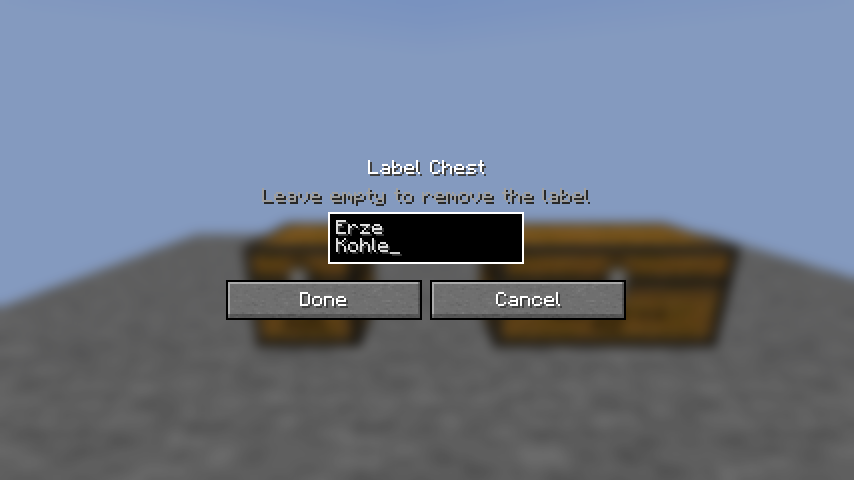
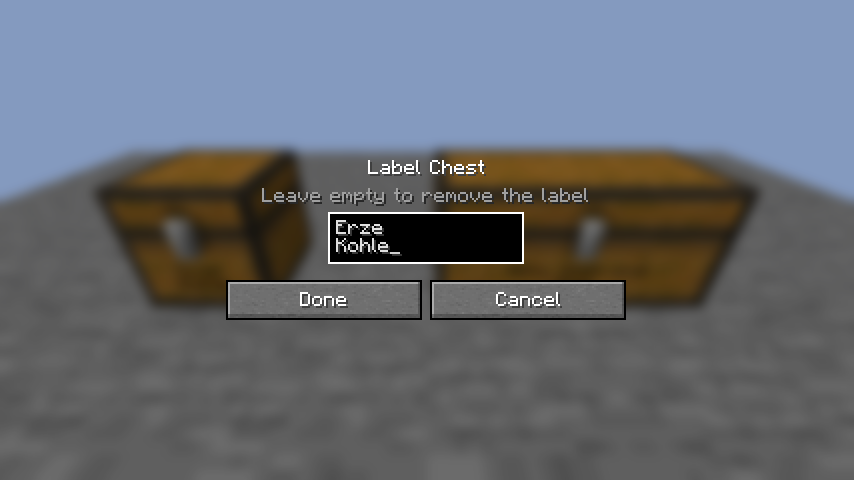
docs: sharper chest screenshot from closer camera at 1920x1080

Changed region(s): [[0.0, 0.2812, 1.0, 0.75], [0.274, 0.6562, 0.4567, 0.75], [0.4871, 0.5312, 0.6393, 0.5938]]

diff --git a/docs/index.html b/docs/index.html
@@ -42,7 +42,6 @@
       height: auto;
       border: 1px solid var(--border);
       border-radius: 8px;
-      image-rendering: pixelated;
     }
     figcaption { color: var(--muted); font-size: 0.9rem; margin-top: 6px; }
     ol, ul { padding-left: 1.3em; }
@@ -64,7 +63,7 @@
   <p class="lead">Fabric-Mod für Minecraft 26.3. Truhen lassen sich wie Schilder beschriften, der Text steht direkt auf der Front.</p>
 
   <figure>
-    <img src="assets/truhen.png" width="854" height="480" alt="Einzeltruhe mit der Beschriftung Erze, Kohle und Doppeltruhe mit Holz, Stein und Glas">
+    <img src="assets/truhen.png" width="1920" height="1080" alt="Einzeltruhe mit der Beschriftung Erze, Kohle und Doppeltruhe mit Holz, Stein und Glas">
     <figcaption>Einzeltruhe und Doppeltruhe mit Beschriftung</figcaption>
   </figure>
 

diff --git a/src/gametest/java/net/frank/chestfrontlabels/gametest/ChestLabelClientGameTest.java b/src/gametest/java/net/frank/chestfrontlabels/gametest/ChestLabelClientGameTest.java
@@ -3,6 +3,7 @@ package net.frank.chestfrontlabels.gametest;
 import net.fabricmc.fabric.api.client.gametest.v1.FabricClientGameTest;
 import net.fabricmc.fabric.api.client.gametest.v1.context.ClientGameTestContext;
 import net.fabricmc.fabric.api.client.gametest.v1.context.TestSingleplayerContext;
+import net.fabricmc.fabric.api.client.gametest.v1.screenshot.TestScreenshotOptions;
 import net.frank.chestfrontlabels.ChestLabels;
 import net.frank.chestfrontlabels.client.ChestLabelScreen;
 import net.minecraft.core.BlockPos;
@@ -32,7 +33,7 @@ public class ChestLabelClientGameTest implements FabricClientGameTest {
                 label(server.overworld(), DOUBLE_LEFT, "Holz, Stein und Glas");
                 label(server.overworld(), DOUBLE_RIGHT, "Holz, Stein und Glas");
             });
-            game.getServer().runCommand("tp @p 1.5 100 3.5 180 15");
+            game.getServer().runCommand("tp @p 2.0 100 2.8 180 30");
             context.runOnClient(client -> {
                 if (!client.gui.hud.isHidden()) client.gui.hud.toggle();
             });
@@ -46,7 +47,7 @@ public class ChestLabelClientGameTest implements FabricClientGameTest {
             if (!synced.equals("Erze\nKohle"))
                 throw new AssertionError("Beschriftung nicht am Client: '" + synced + "'");
 
-            context.takeScreenshot("chest-labels");
+            context.takeScreenshot(TestScreenshotOptions.of("chest-labels").withSize(1920, 1080));
 
             context.setScreen(() -> new ChestLabelScreen(SINGLE, "Erze\nKohle"));
             context.takeScreenshot("editor");
